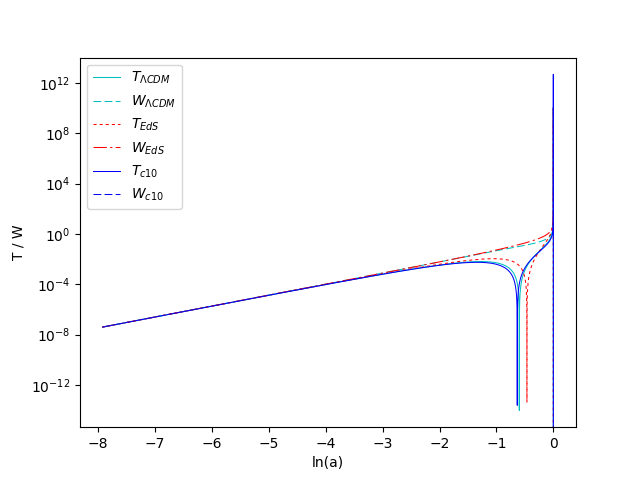
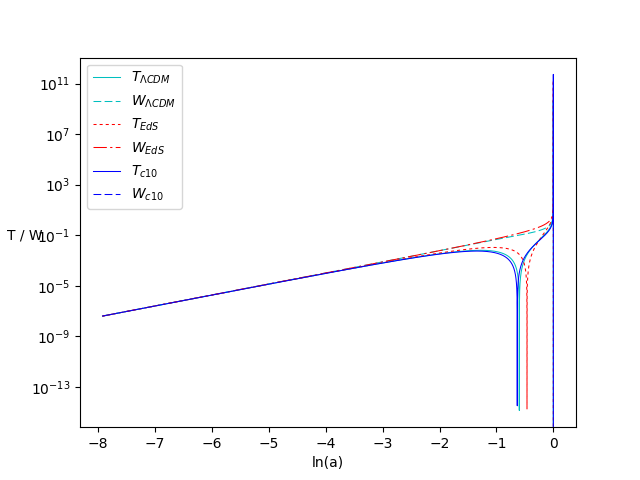
Stuff, not good stuff

diff --git a/Kode/betternewvir.py b/Kode/betternewvir.py
@@ -8,23 +8,32 @@ from scipy.integrate import odeint
 import sys
 
 
-H_0 = 70 #km/s/Mpc
-G = 6.67408e-11 		#M^3/kg/s^2
+#H_0 = 70 				#km/s/Mpc
+#H_0 = 1e-42 			#GeV
+G = 1/(4*np.pi)			#M^3/kg/s^2 not these units
 M_pl = 1./np.sqrt(8*np.pi*G)
+H_0 = 1./M_pl
+rho_c0 = 3*H_0**2/(8*np.pi*G)
 
-def vircheck(R, y, Omega_m0, Lambda, delta_i, acceleration, E, gamma, beta, M, f_R0, r_iovera_i, delta_rho, n, file):
+print H_0, G, M_pl, rho_c0
+
+def vircheck(R, y, Omega_m0, Lambda, delta_i, acceleration, E, gamma, beta, M, f_R0, delta_rho, n, file):
 
 	a = np.exp(y)
 
 	rad = R[:, 0]
 	drdy = R[:, 1]
-	ddrddy = acceleration( Omega_m0, Lambda, delta_i, a, rad, drdy, E, gamma, beta, M, f_R0, r_iovera_i, delta_rho, n )
+	ddrddy = np.zeros(len(rad))
 	s = j = np.argmax(rad)
-
+	W_ta = potential(rad[s], drdy[s], ddrddy[s], a[s], E, Omega_m0, Lambda, gamma, beta, delta_rho, M, r, delta_i, n )
 	T = kinetic(drdy)
-	W = potential(rad, drdy, ddrddy, a, E, Omega_m0, Lambda, gamma, beta)
+	W = np.zeros(len(T))
+	for i in range(len(rad)):
+		ddrddy[i] = acceleration( Omega_m0, Lambda, delta_i, a[i], rad[i], drdy[i], E, gamma, beta, M, f_R0, delta_rho, n )
 
-	W_ta = potential(rad[s], drdy[s], ddrddy[s], a[s], E, Omega_m0, Lambda, gamma, beta)
+		W[i] = potential(rad[i], drdy[i], ddrddy[i], a[i], E, Omega_m0, Lambda, gamma, beta, delta_rho, M, r, delta_i, n)
+
+	
 
 	vir = False
 
@@ -47,6 +56,7 @@ def vircheck(R, y, Omega_m0, Lambda, delta_i, acceleration, E, gamma, beta, M, f
 			rad[i] = rad[k]
 			i += 1
 
+
 		odensity = (Omega_m0*(1+delta_i)/rad[k]**3)/(Omega_m0/a[k]**3)
 		odensitymax = (Omega_m0*(1+delta_i)/rad[s]**3)/(Omega_m0/a[s]**3)
 
@@ -59,32 +69,32 @@ def vircheck(R, y, Omega_m0, Lambda, delta_i, acceleration, E, gamma, beta, M, f
 		file.write("{:1.10e} \n".format(rviroverrta))
 		file.write("{:1.5f} \n".format(aviroverata))
 	else:
-		file.write("These parameters do not lead to collapse.")
+		file.write("These parameters do not lead to collapse. \n")
 	return rad, T, W
 
 
 def kinetic( drdy ):
 	return 3./10.*drdy**2
 
-def potential( radius, dotR, ddotR, a, E, Omega_m0, Lambda, gamma, beta ):
-	W = 3./5.*radius*(-3*Omega_m0/(2*a**3*E(Omega_m0, Lambda, a, gamma, beta))*dotR + ddotR)
+def potential( radius, dotR, ddotR, a, E, Omega_m0, Lambda, gamma, beta, delta_rho, M, r, delta_i, n ):
+	W = 3./5.*radius*(-3*Omega_m0/(2*a**3*E(Omega_m0, Lambda, a, gamma, beta, n, f_R0, delta_rho, delta_i, M, radius ))*dotR + ddotR)
 	return W
 
 
-def r( x, y, acceleration, Omega_m0, Lambda, delta_i, E, gamma, beta, M, f_R0, r_iovera_i, delta_rho, n ):
+def r( x, y, acceleration, Omega_m0, Lambda, delta_i, E, gamma, beta, M, f_R0, delta_rho, n ):
 	#input function to be used by odeint. Generic form for a seccond order ode
 	r = x[0]
 	drdy = x[1]
 	a = np.exp(y)
 	rr = [[],[]]
 	rr[0] = drdy
-	rr[1] = acceleration( Omega_m0, Lambda, delta_i, a, r, drdy, E, gamma, beta, M, f_R0, r_iovera_i, delta_rho, n )	
+	rr[1] = acceleration( Omega_m0, Lambda, delta_i, a, r, drdy, E, gamma, beta, M, f_R0, delta_rho, n )	
 
 	return rr
 
 
 
-def findcoll(tolerance, acceleration, model, E, gamma, beta, M, f_R0, r_iovera_i, delta_rho, n, y0, file):
+def findcoll(tolerance, acceleration, model, E, gamma, beta, M, f_R0, delta_rho, n, y0, file):
 
 	#Set initial conditions and time array
 	N = 5000000
@@ -109,9 +119,10 @@ def findcoll(tolerance, acceleration, model, E, gamma, beta, M, f_R0, r_iovera_i
 
 	colltime_max = 10
 
-	delta_max = 0.01
+	delta_max = 0.002
 	delta_min = 0.00000001
 	j = 0
+	c = 0
 
 	while abs(colltime_max) >= abs(tol):
 
@@ -119,32 +130,35 @@ def findcoll(tolerance, acceleration, model, E, gamma, beta, M, f_R0, r_iovera_i
 		delta_mid = (delta_max + delta_min)/2.0
 
 		# solve for deltamax
-		radiusmax = odeint(r, [r0, drdx0], y, args = ( acceleration, Omega_m0, Lambda, delta_max, E, gamma, beta, M, f_R0, r_iovera_i, delta_rho, n) )
+		radiusmax = odeint(r, [r0, drdx0], y, args = ( acceleration, Omega_m0, Lambda, delta_max, E, gamma, beta, M, f_R0, delta_rho, n) )
 
 
 		#solve for deltamin
-		radiusmin = odeint(r, [r0, drdx0], y, args = ( acceleration, Omega_m0, Lambda, delta_min, E, gamma, beta, M, f_R0, r_iovera_i, delta_rho, n) )
+		radiusmin = odeint(r, [r0, drdx0], y, args = ( acceleration, Omega_m0, Lambda, delta_min, E, gamma, beta, M, f_R0, delta_rho, n) )
 
 
 		#solve for deltamid
-		radiusmid = odeint(r, [r0, drdx0], y, args = ( acceleration, Omega_m0, Lambda, delta_mid, E, gamma, beta, M, f_R0, r_iovera_i, delta_rho, n) )
+		radiusmid = odeint(r, [r0, drdx0], y, args = ( acceleration, Omega_m0, Lambda, delta_mid, E, gamma, beta, M, f_R0, delta_rho, n) )
 
 		for i in range(len(radiusmax[:,0])):
 			if radiusmax[i,0] <= 0:
 				colltime_max = y[i]
 				collmax = True
+				#print "max"
 				break
 
 		for i in range(len(radiusmid[:,0])):
 			if radiusmid[i,0] <= 0:
 				colltime_mid = y[i]
 				collmid = True
+				#print "mid"
 				break
 
 		for i in range(len(radiusmin[:,0])):
 			if radiusmin[i,0] <= 0:
 				colltime_min = y[i]
 				collmin = True
+				#print "min"
 				break
 
 		if ( collmax and collmid ):
@@ -162,11 +176,14 @@ def findcoll(tolerance, acceleration, model, E, gamma, beta, M, f_R0, r_iovera_i
 			print "well shiet"
 
 		if ( collmin ):
-			if delta_min == 0:
-				print "Well damn.."
-				delta_max = 0
+		
+			print "Well damn.."
+			#delta_max = 1e-15
+			delta_min *= 1e-4
+			c += 1
+			if c > 10:
 				break
-			delta_min = 0
+			
 			
 
 		#set x_coll, which is returned from findcoll()
@@ -187,41 +204,57 @@ def findcoll(tolerance, acceleration, model, E, gamma, beta, M, f_R0, r_iovera_i
 	file.write("{:1.7e} \n".format(ct))
 	print delta_max
 
-	R = odeint(r, [r0, drdx0], y, args = ( acceleration, Omega_m0, Lambda, delta_max, E, gamma, beta, M, f_R0, r_iovera_i, delta_rho, n ) )
+	R = odeint(r, [r0, drdx0], y, args = ( acceleration, Omega_m0, Lambda, delta_max, E, gamma, beta, M, f_R0, delta_rho, n ) )
 
 	#mpl.plot(y, R[:,0], linewidth = 0.75, label = model)
 	
 
-	rvir, T, W = vircheck( R, y, Omega_m0, Lambda, delta_max, acceleration, E, gamma, beta, M, f_R0, r_iovera_i, delta_rho, n, file )
+	rvir, T, W = vircheck( R, y, Omega_m0, Lambda, delta_max, acceleration, E, gamma, beta, M, f_R0, delta_rho, n, file )
 	if model == "Chameleon":
-		mpl.plot(y, rvir, "-.", linewidth = 0.75, label = r"Chameleon, M = %1.1e, $\frac{r_i}{a_i}$ = %1.0f, $f_{R0}$ = %1.5e" % (M, r_iovera_i, f_R0))
+		mpl.plot(y, rvir, "-.", linewidth = 0.75, label = r"Chameleon, M = %1.0e, $f_{R0} - 1$ = %1.0e, $\delta_i$ = %1.5e" % (M, f_R0 - 1, delta_max))
+		mpl.plot(y, R[:,0], "-.", linewidth = 0.75, label = "Chameleon no vir")
+		Rmin = odeint(r, [r0, drdx0], y, args = ( acceleration, Omega_m0, Lambda, delta_min, E, gamma, beta, M, f_R0, delta_rho, n ) )
+		rvirmin, Tmin, Wmin = vircheck( Rmin, y, Omega_m0, Lambda, delta_min, acceleration, E, gamma, beta, M, f_R0, delta_rho, n, file )
+		mpl.plot(y, rvirmin, "-.", linewidth = 0.75, label = r"Chameleon, M = %1.0e, $f_{R0} - 1$ = %1.0e, $\delta_i$ = %1.5e" % (M, f_R0 - 1, delta_min))
 	elif model == "LCDM":
 		mpl.plot(y, rvir, "--", linewidth = 0.75, label = r"$\Lambda$CDM, $\delta_i$ = %1.5e" % delta_max)
 	elif model == "EdS":
 		mpl.plot(y, rvir, ":", linewidth = 0.75, label = model)
 
-	return T, W, y
+	return T, W, y, delta_max
 
-def d_rho(Omega_m0, delta_i, R, r_iovera_i):
-	return Omega_m0*(1 + delta_i)*r_iovera_i**3/R**3
+def d_rho(Omega_m0, Lambda, delta_i, M, R, beta, n, f_R0):
+	return 2*G*M/(H_0**2*R**3)
 
+def d_rho_complex(Omega_m0, Lambda, delta_i, M, a, beta, n, f_R0):
+	R0 = 3.*H_0**2*(Omega_m0 + 4*Lambda)
+	R_c = np.sqrt(delta_i)*(n + 1)*abs(1 - f_R0)*R0/(2*beta**2)*( (Omega_m0 + 4*Lambda)/(Omega_m0/a**3 + 4*Lambda) )**(n + 2)
+	#R_c = 1e-4
+	return 3.*M/(4.*rho_c0*np.pi*R_c**3)
 
-def LCDMacc( Omega_m0, Lambda, delta_i, a, r, drdy, E, gamma, beta, M, f_R0, r_iovera_i, delta_rho, n ):
+def LCDMacc( Omega_m0, Lambda, delta_i, a, r, drdy, E, gamma, beta, M, f_R0, delta_rho, n ):
 	return (-Omega_m0*(1+delta_i)/(2.*r**2) + r*Lambda + 3./2.*drdy*Omega_m0/a**3)/E(Omega_m0, Lambda, a, 0, 0)
 
 def ELCDMnorad(Omega_m0, Lambda, a, gamma, beta):
 	return Omega_m0/a**3 + Lambda
 
-def chameleonacc( Omega_m0, Lambda, delta_i, a, r, drdy, E, gamma, beta, M, f_R0, r_iovera_i, delta_rho, n ):
-	return  ( Lambda*r - gamma(Omega_m0, Lambda, delta_i, beta, n, M, f_R0, r_iovera_i, delta_rho, r, a, True)*Omega_m0*(1 + delta_i)/(2*r**2) + 3./2.*gamma(Omega_m0, Lambda, 0, beta, 0, 0, 0, 0, 0, 0, 0, False)*Omega_m0*drdy/a**3)/E(Omega_m0, Lambda, a, gamma, beta)
+def chameleonacc( Omega_m0, Lambda, delta_i, a, r, drdy, E, gamma, beta, M, f_R0, delta_rho, n ):
+	return  ( Lambda*r - gamma(Omega_m0, Lambda, delta_i, beta, n, M, f_R0, delta_rho, r, a, True)*Omega_m0*(1 + delta_i)/(2*r**2) + \
+		3./2.*gamma(Omega_m0, Lambda, delta_i, beta, n, M, f_R0, delta_rho, r, a, True)*Omega_m0*drdy/a**3)/E(Omega_m0, Lambda, a, gamma, beta, n, f_R0, delta_rho, delta_i, M, r)
 
-def Echamnorad( Omega_m0, Lambda, a, gamma, beta ):
-	return gamma(Omega_m0, Lambda, 0, beta, 0, 0, 0, 0, 0, 0, 0, False)*Omega_m0/a**3 + Lambda
+def Echamnorad( Omega_m0, Lambda, a, gamma, beta, n, f_R0, delta_rho, delta_i, M, r ):
+	return gamma(Omega_m0, Lambda, delta_i, beta, n, M, f_R0, delta_rho, r, a, True)*Omega_m0/a**3 + Lambda
 
-def gammaHuSawicki1( Omega_m0, Lambda, delta_i, beta, n, M, f_R0, r_iovera_i, delta_rho, r, a, perturbation ):
+first = True
+def gammaHuSawicki1( Omega_m0, Lambda, delta_i, beta, n, M, f_R0, delta_rho, r, a, perturbation ):
 	if perturbation:
-		return 1 - 2*beta**2*( 1- abs(1 - f_R0)*r_iovera_i*r/(12*beta*G*M)*( (Omega_m0 + 4*Lambda)/(delta_rho(Omega_m0, delta_i, r, r_iovera_i) - Omega_m0/a**3) )**(n/(n + 1)) )
+		#print Omega_m0, Lambda, delta_i, beta, n, M, f_R0, delta_rho(M), r, a
+		Phi_N = ( 2*G**4*M**4/( H_0**2*Omega_m0*(1 + delta_i)*r**3 ) )
 
+		return 1 - 2*beta**2*(1 - abs(1-f_R0)/(12*beta**2*Phi_N)*( (Omega_m0 + 4*Lambda)/(delta_rho(Omega_m0, Lambda, delta_i, M, a, beta, n, f_R0) - Omega_m0/a**3) )**(n + 1) )
+		#return 1 - 2*beta**2*( 1- abs(1 - f_R0)*r_iovera_i*r/(12*beta*G*M)*( (Omega_m0 + 4*Lambda)/(delta_rho(Omega_m0, delta_i, r, r_iovera_i) - Omega_m0/a**3) )**(n/(n + 1)) )
+	elif delta_i <= 1e-14:
+		return 1 - 2*beta**2
 	else:
 		return 1 - 2*beta**2
 
@@ -234,38 +267,50 @@ def R_c(Omega_m0, Lambda, delta_i, phi_inf, n, f_R0):
 	return np.sqrt(delta_i)*phi_inf**2*2*(n + 1)/(M_pl**2*(f_R0 - 1)*R_0)*(M_pl*(1 - f_R0)/(2*beta*phi_inf))**(n/(n + 1))
 
 
-tolerance = float(sys.argv[1])
-y0 = np.log(1/(1+float(sys.argv[2])))
+tolerance = 0.01
+y0 = np.log(1./(1.+2740.))
 a_i = np.exp(y0)
 
 #findcoll(tolerance, LCDMacc, "LCDM", ELCDMnorad, y0)
 #findcoll(tolerance, LCDMacc, "EdS", ELCDMnorad, y0)
 
 
+M = 1e14
 
+beta = 1/np.sqrt(6)
+f_R0 = 1.00001
+n = 0.02
+Omega_m0 = 0.25
+Lambda = 0.75
+
+#fileLCDM = open("Numbers\LCDMviracc.txt", "w")
+
+#fileEdS = open("Numbers\EdSvirracc.txt", "w")
+#filecham = open("Numbers\Chameleon10.txt", "w")
+
+#print "Working on chameleon"
+#Tcham, Wcham, y, d_cham = findcoll(tolerance, chameleonacc, "Chameleon", Echamnorad, gammaHuSawicki1, 1/np.sqrt(6), M, 1.00001, d_rho_complex, 0.02, y0, filecham)
+#a = np.exp(y)
 
 """
-
-fileLCDM = open("Numbers\LCDMviracc.txt", "w")
-fileEdS = open("Numbers\EdSvirracc.txt", "w")
-filecham = open("Numbers\Chameleon10.txt", "w")
-
-print "Working on chameleon"
-Tcham, Wcham, y = findcoll(tolerance, chameleonacc, "Chameleon", Echamnorad, gammaHuSawicki1, 1/np.sqrt(6), 1e10, 1.00001, 100, d_rho, 0.1, y0, filecham)
 print "Working on LCDM"
-T1, W1, y = findcoll(tolerance, LCDMacc, "LCDM", ELCDMnorad, 0, 0, 0, 0, 0, 0, 0, y0, fileLCDM)
+T1, W1, y, d_LCDM = findcoll(tolerance, LCDMacc, "LCDM", ELCDMnorad, 0, 0, 0, 0, 0, 0, y0, fileLCDM)
 print "Working on EdS"
-T2, W2, y = findcoll(tolerance, LCDMacc, "EdS", ELCDMnorad, 0, 0, 0, 0, 0, 0, 0, y0, fileEdS)
+T2, W2, y, d_EdS = findcoll(tolerance, LCDMacc, "EdS", ELCDMnorad, 0, 0, 0, 0, 0, 0, y0, fileEdS)
 
 fileLCDM.close()
+
 fileEdS.close()
 filecham.close()
 
 mpl.xlabel("ln(a)")
 mpl.ylabel(r"$\tilde{R}$", rotation = 0)
 mpl.legend()
-mpl.savefig("Figures\Evolution.png")
+mpl.savefig("Figures\Evolution.png", dpi = 1000)
 mpl.clf()
+
+mpl.plot(y, Omega_m0/a**3 - 4*Lambda)
+mpl.show()
 
 mpl.plot(y, T1, "c-", linewidth = 0.75, label = r"$T_{\Lambda CDM}$")
 mpl.plot(y, -W1, "c--", linewidth = 0.75, label = r"$W_{\Lambda CDM}$")
@@ -297,32 +342,64 @@ mpl.legend()
 mpl.savefig("Figures\RelativeEnergies.png")
 mpl.clf()
 """
-r_iovera_i_list = [1, 10, 25, 50, 100]
+mpl.clf()
+N = 5000000
+y = np.linspace(y0, -1e-15, N)
+r0 = np.exp(y0)
+drdx0 = np.exp(y0)
 
-print "On loop over r_i/a_i"
-riloop = open("Numbers\Riloop.txt", "w")
-for rioai in r_iovera_i_list:
-	riloop.write("r_i/a_i = {:1.0f}".format(rioai))
-	Tcham, Wcham, y = findcoll(tolerance, chameleonacc, "Chameleon", Echamnorad, gammaHuSawicki1, 1/np.sqrt(6), 1e10, 1.00001, rioai, d_rho, 0.1, y0, riloop)
-riloop.close()
+"""
+masses = [1e5, 1e10, 1e15, 1e20, 1e25, 1e30]
+#want to loop over masses, but not within the rootfinding. I want a figure showing how Delta=rho_p/rho_b varies with the mass and curvature
+print "On loop over M"
+Mloop = open("Numbers\Massloop.txt", "w")
+for Mass in masses:
+	Mloop.write("M = {:1.1e} \n".format(Mass))
+	rad = odeint(r, [r0, drdx0], y, args = ( chameleonacc, Omega_m0, Lambda, d_cham, Echamnorad, gammaHuSawicki1, beta, Mass, f_R0, d_rho_complex, n) )
+	rvir, T, W = vircheck( rad, y, Omega_m0, Lambda, d_cham, chameleonacc, Echamnorad, gammaHuSawicki1, beta, Mass, f_R0, d_rho_complex, n, Mloop )
+	mpl.plot(y, rvir, linewidth = 0.75, label = r"$M_c$ = %1.1e" % Mass)
+Mloop.close()
 mpl.xlabel("ln(a)")
 mpl.ylabel(r"$\tilde{R}$", rotation = 0)
 mpl.legend()
-mpl.savefig("Figures\Riloop.png")
+mpl.savefig("Figures\Massloop.png")
 mpl.clf()
 
-
 print "Loop over f_R0"
-eps = 5e-5
-f_R0_arr = np.linspace(1 - eps, 1 + eps, 10)
-f_R0_loop = open("Numbers\Loopf_R0.txt", "w")
-for f_R0 in f_R0_arr:
-	f_R0_loop.write("f_R0 = {:1.5e}".format(f_R0))
-	Tcham, Wcham, y = findcoll(tolerance, chameleonacc, "Chameleon", Echamnorad, gammaHuSawicki1, 1/np.sqrt(6), 1e10, f_R0, 100, d_rho, 0.1, y0, f_R0_loop)
-
+M = 1e14
+f_R0_list = np.array([1e-8, 1e-7, 1e-6, 1e-5, 1e-4]) + 1
+f_R0_loop = open("Numbers\Loop_f_R0.txt", "w")
+for f_R0_i in f_R0_list:
+	f_R0_loop.write("f_R0 = {:1.8f} \n".format(f_R0_i))
+	rad = odeint(r, [r0, drdx0], y, args = ( chameleonacc, Omega_m0, Lambda, d_cham, Echamnorad, gammaHuSawicki1, beta, M, f_R0_i, d_rho_complex, n) )
+	rvir, T, W = vircheck( rad, y, Omega_m0, Lambda, d_cham, chameleonacc, Echamnorad, gammaHuSawicki1, beta, M, f_R0_i, d_rho_complex, n, f_R0_loop )
+	mpl.plot(y, rvir, linewidth = 0.75, label = r"$f_{R0}-1$ = %1.1e" % (f_R0_i-1))
 f_R0_loop.close()
 mpl.xlabel("ln(a)")
 mpl.ylabel(r"$\tilde{R}$", rotation = 0)
 mpl.legend()
-mpl.savefig("Figures\Loopf_R0.png")
+mpl.savefig("Figures\Loop_f_R0.png")
 mpl.clf()
+
+M = 1e14
+f_R0 = 1e-4
+n_loop = open("Numbers\Loop_n.txt", "w")
+n_list = np.linspace(1e-3, 1e-1, 5)
+for ns in n_list:
+	n_loop.write("n = {:1.8f} \n".format(n))
+	rad = odeint(r, [r0, drdx0], y, args = ( chameleonacc, Omega_m0, Lambda, d_cham, Echamnorad, gammaHuSawicki1, beta, M, f_R0, d_rho_complex, ns) )
+	rvir, T, W = vircheck( rad, y, Omega_m0, Lambda, d_cham, chameleonacc, Echamnorad, gammaHuSawicki1, beta, M, f_R0, d_rho_complex, ns, n_loop )
+	mpl.plot(y, rvir, linewidth = 0.75, label = r"$n$ = %1.1e" % (ns))
+n_loop.close()
+mpl.xlabel("ln(a)")
+mpl.ylabel(r"$\tilde{R}$", rotation = 0)
+mpl.legend()
+mpl.savefig("Figures\Loop_n.png")
+mpl.clf()
+"""
+
+r = odeint(r, [r0, drdx0], y, args = ( chameleonacc, Omega_m0, Lambda, 1.5e-3, Echamnorad, gammaHuSawicki1, beta, M, f_R0, d_rho_complex, n) )
+a = np.exp(y)
+geff = gammaHuSawicki1(Omega_m0, Lambda, 1.5e-3, beta, n, M, f_R0, d_rho_complex, r[:,0], a, True) - 1
+mpl.plot(y, geff)
+mpl.show()
